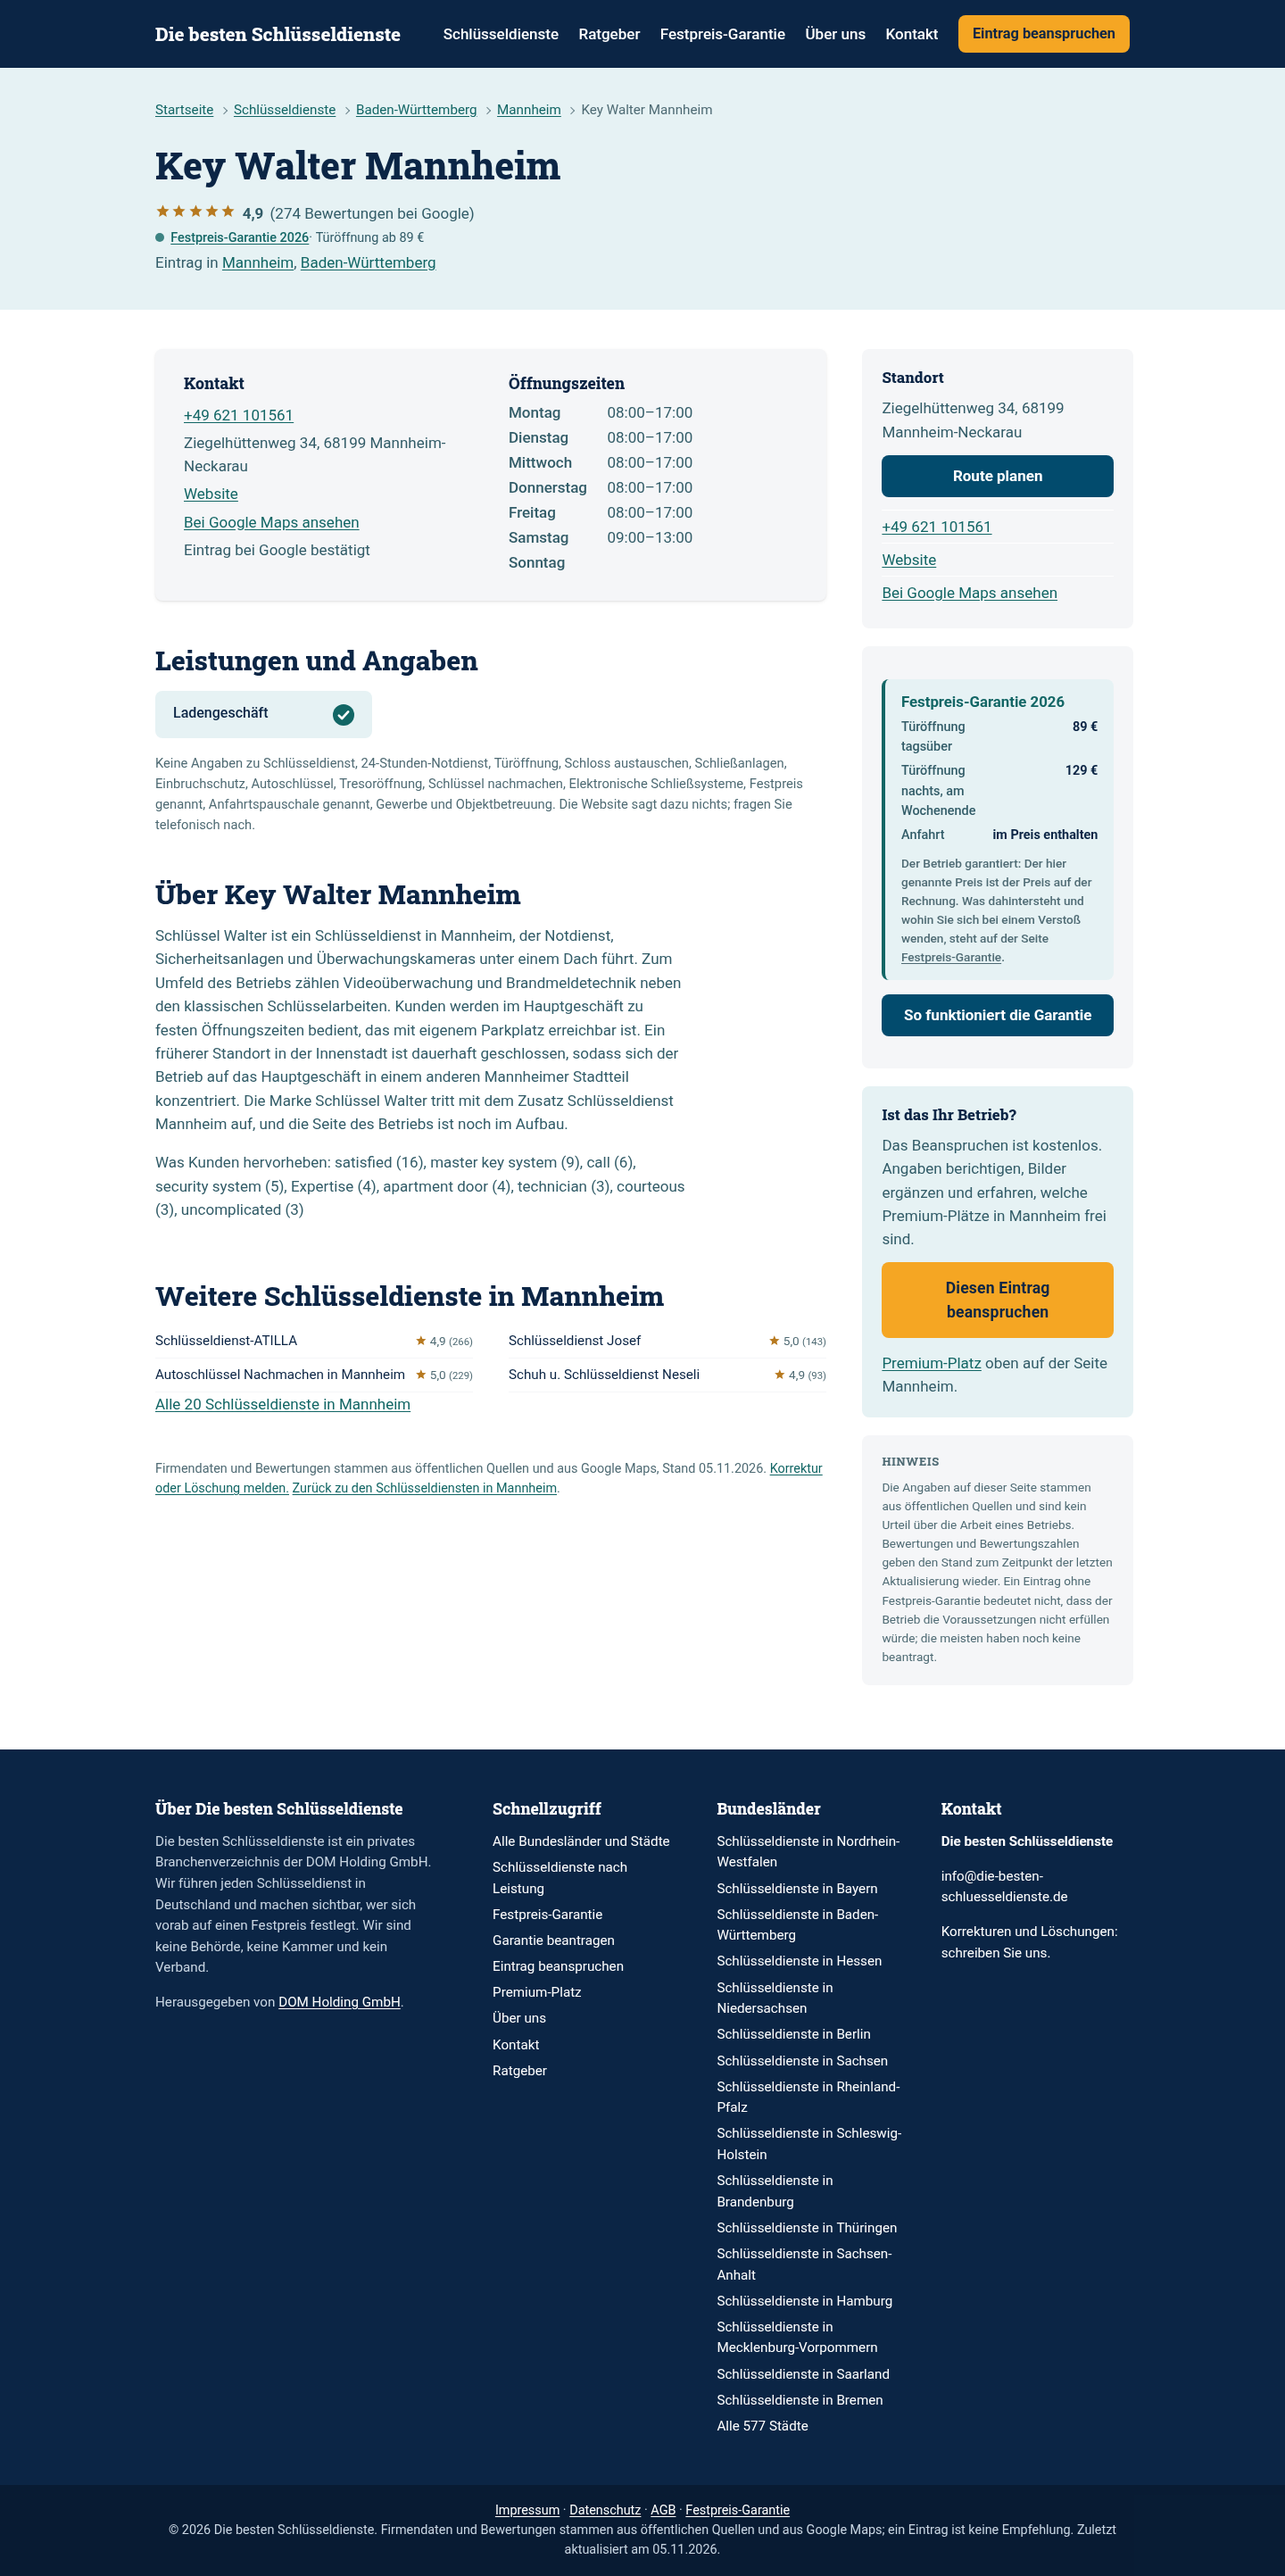
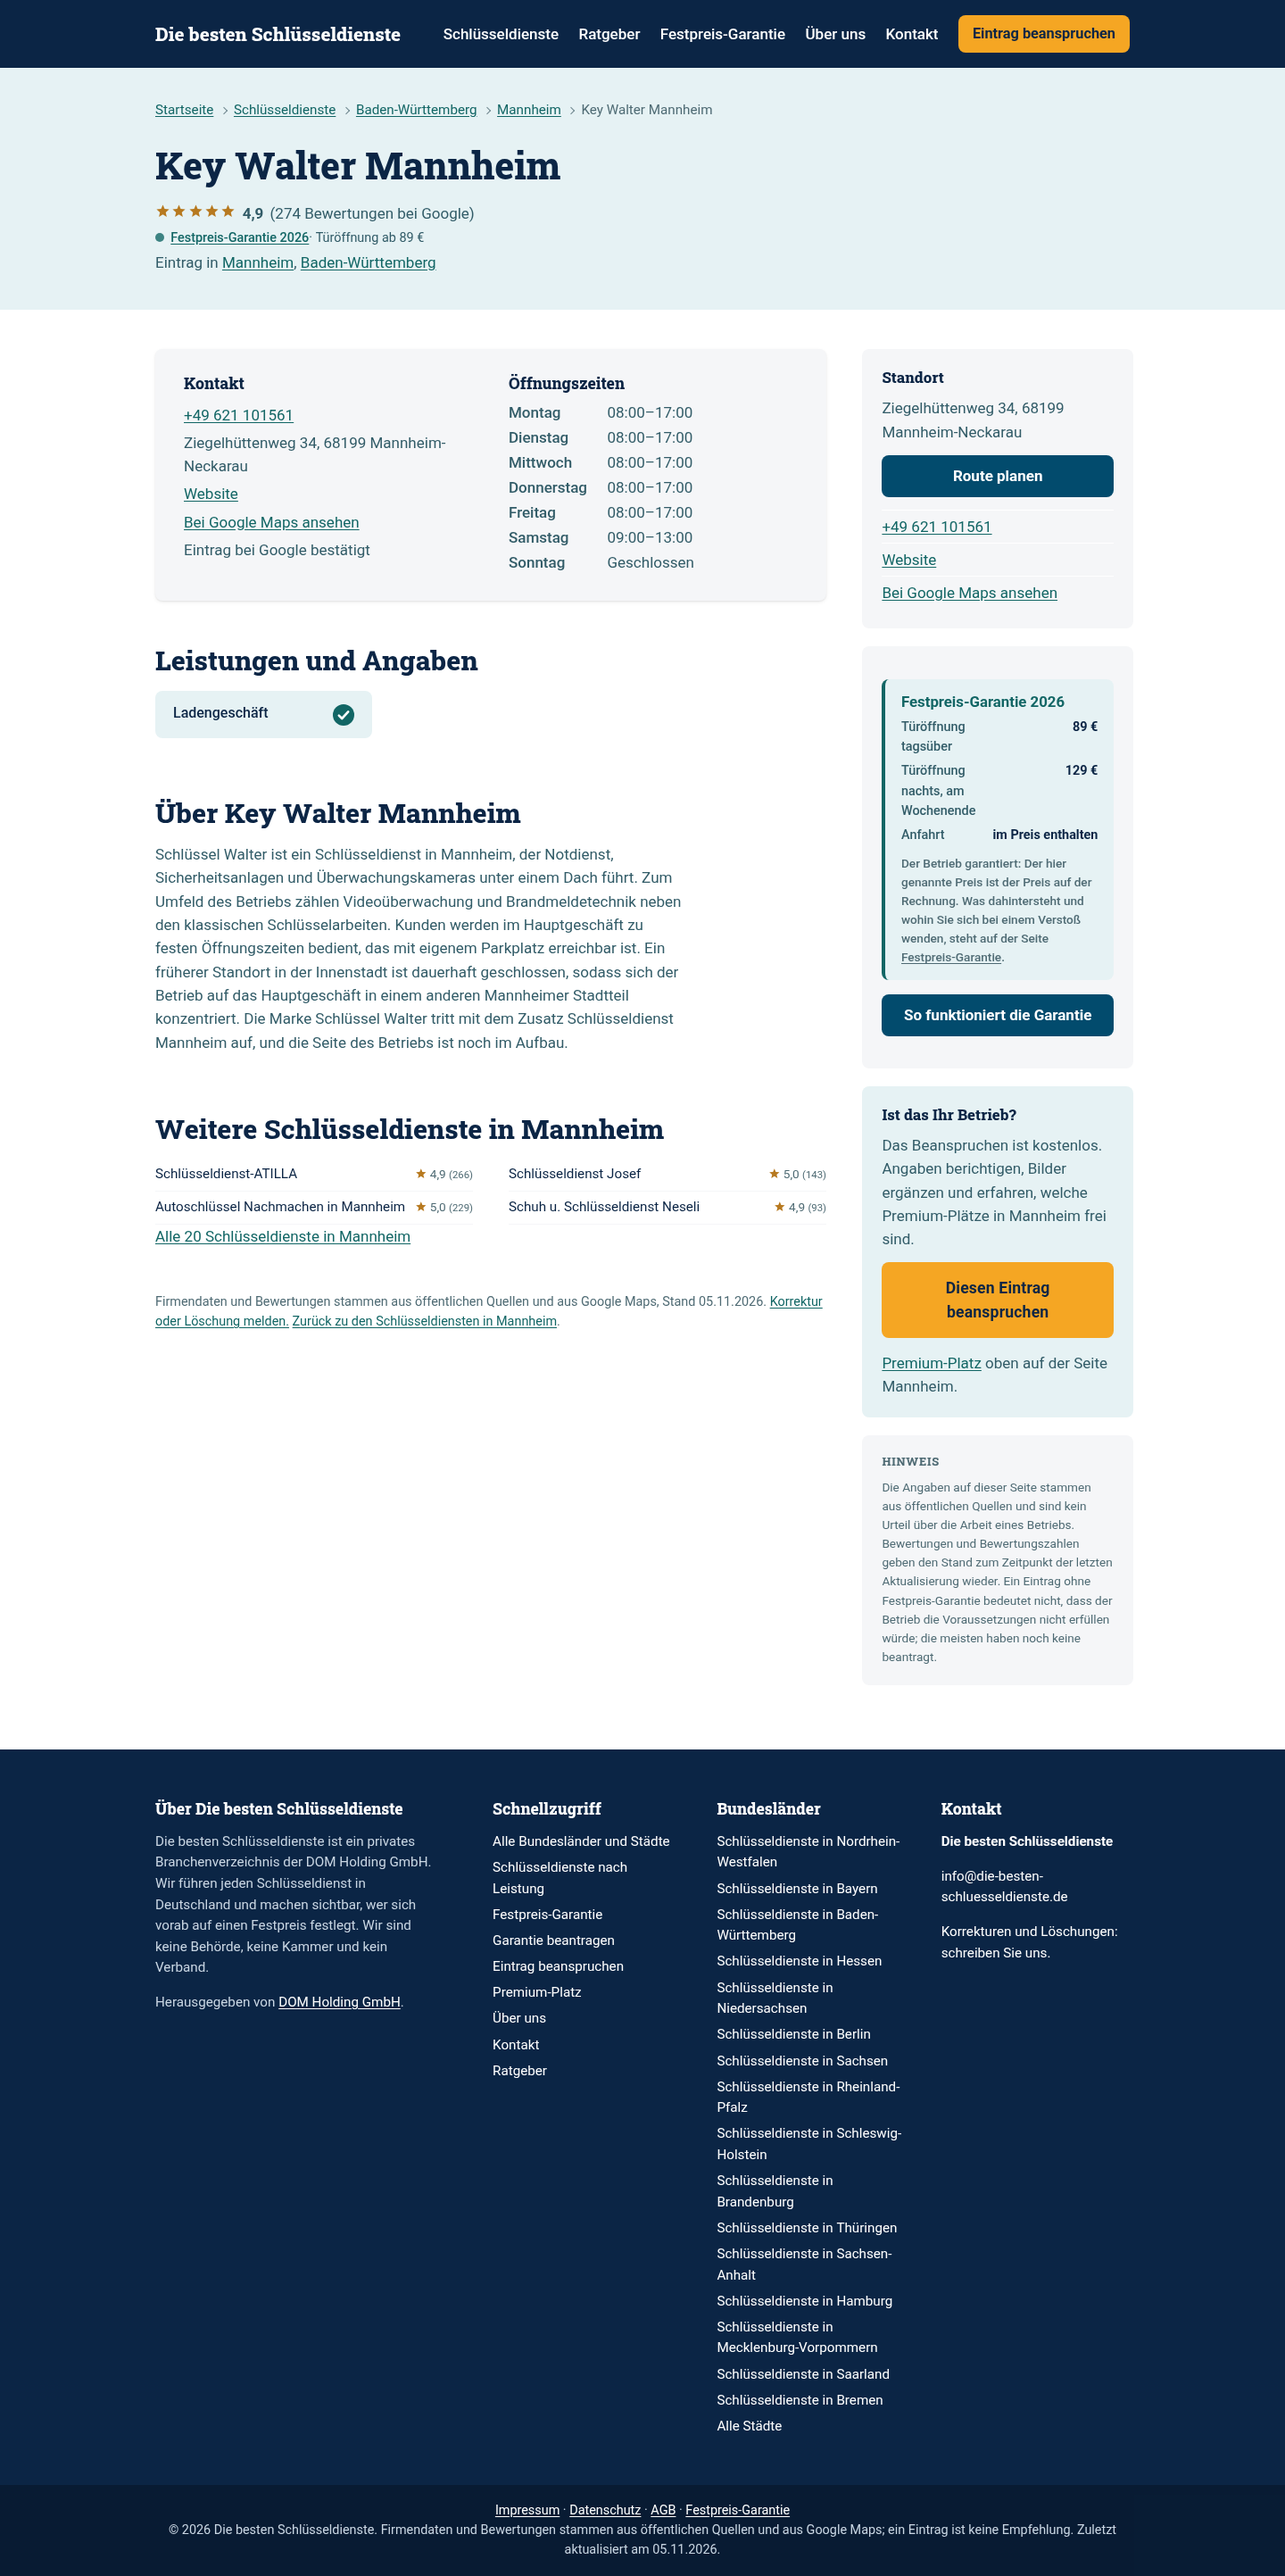
Eintragsseite: nur bestaetigte Merkmale, Bewertungsschlagwoerter raus, Sonntag, Staedtezahl
(1) "Leistungen und Angaben" zeigt nur Merkmale mit Wert true; nicht
bestaetigte werden weggelassen (keine "Keine Angaben zu ..."-Zeile).
Ohne bestaetigtes Merkmal entfaellt der ganze Abschnitt. 2.394 Eintraege
zeigten bisher die Fehlanzeigen-Liste; 1.453 (38 %) haben danach keinen
Merkmals-Abschnitt (fehlende Website-Beleggrundlage) -> Gate-3-Frage
offen, nicht angefasst.

(2) Bewertungsschlagwoerter (reviews_tags, u. a. irrefuehrendes
"damage (45)") ersatzlos entfernt; nirgends sonst gerendert, bleibt in
den Daten.

Sonntag: vorhandener leerer/null-Tag -> "Geschlossen" (DataForSEO
schreibt Ruhetag als "sunday": null). Staedtezahl: 577 = indexierte
Staedte, 787 = inkl. 210 kleinerer Orte; Verweise sagen jetzt "Alle
Staedte" (ohne Zahl), nur noch ein Verweis auf der Startseite.

Neue Screenshots (Eintrag mit Garantie, Mannheim). Bericht:
berichte/2026-11-05-eintragsseite-merkmale-schlagwoerter.md

Changed region(s): [[0.125, 0.2807, 0.625, 0.5925]]

diff --git a/berichte/2026-11-05-eintragsseite-merkmale-schlagwoerter.md b/berichte/2026-11-05-eintragsseite-merkmale-schlagwoerter.md
@@ -1,0 +1,77 @@
+---
+title: Eintragsseite – Fehlanzeigen raus, Bewertungsschlagwörter raus, Sonntag, Städtezahl
+type: bericht
+status: fertig
+updated: 2026-11-05
+---
+
+# Eintragsseite: zwei Blöcke entfernt, zwei Kleinigkeiten
+
+## (1) „Leistungen und Angaben": nur noch Bestätigtes
+`AttributeGrid` zeigt jetzt **nur Merkmale mit Wert „true"** (Website belegt sie). Nicht bestätigte
+Merkmale – sowohl ein „nein" als auch „nicht bekannt" – werden **weggelassen, nicht benannt**; die
+Zeile „Keine Angaben zu …" ist raus. Ist **kein** Merkmal bestätigt, **entfällt der ganze Abschnitt**
+(Überschrift, Raster und die „In Deutschland vergleichen"-Links) auf der Eintragsseite.
+
+### Zahlen, die du vorab wolltest (Stand 3.800 Einträge)
+- **2.394** Einträge zeigten bisher die „Keine Angaben zu …"-Liste.
+- **1.453** Einträge hätten nach der Änderung **gar keinen Merkmals-Abschnitt** mehr (kein einziges
+  Merkmal bestätigt). Davon haben **1.403** überhaupt kein bekanntes Merkmal (weder ja noch nein).
+- **2.347** Einträge haben mindestens ein bestätigtes Merkmal und behalten den Abschnitt.
+
+**Einordnung / deine Entscheidung:** 1.453 von 3.800 (**38 %**) ohne Merkmals-Abschnitt ist viel.
+Der Grund ist fast durchweg **fehlende Beleggrundlage**: die 1.403 ohne jedes bekannte Merkmal sind
+Einträge, zu denen Gate 3 keine Website lesen konnte (keine Seite hinterlegt, Abruf gescheitert, oder
+sehr dünn). Das ist **kein Fehler der Anzeige** – „nur Bestätigtes zeigen" ist richtig, auch wenn
+Gate 3 später mehr erkennt. Die eigentliche Frage ist, ob die **Merkmalserkennung in Gate 3 zu streng
+bzw. die Abdeckung zu dünn** war. Zwei Hebel, falls du mehr Abschnitte willst (beides deine
+Entscheidung, nicht von mir angefasst):
+1. Das Kernmerkmal „Schlüsseldienst (Türöffnung/Schließtechnik)" für Einträge der Google-Kategorie
+   `locksmith` als bestätigt werten, auch ohne eigene Website (heute `schluesseldienst_kern` = true
+   bei 1.795). Das wäre eine Gate-3-Regeländerung.
+2. Websites der betroffenen Einträge erneut abrufen und anreichern (Gate 3 teilweise neu, kostet).
+
+Sag, ob und welchen Weg du willst; die Anzeige-Änderung steht unabhängig davon.
+
+## (2) Bewertungsschlagwörter (`reviews_tags`) entfernt
+Der Block „Was Kunden hervorheben: satisfied (16) …" ist **ersatzlos raus** (Eintragsseite, eine
+Zeile). Er war Googles `reviews_tags` im Rohzustand (englisch, mit Zählern). Gefährlich war u. a.
+„damage (45)", das unter „Was Kunden hervorheben" wie ein verursachter Schaden las – eine falsche
+Aussage über ein fremdes Unternehmen. **Nicht übersetzt, sondern entfernt**; die deutsche
+angereicherte Beschreibung sagt bereits in Sätzen, was der Betrieb macht.
+
+Geprüft, wo `reviews_tags`/`reviewsTags` sonst noch in die Ausgabe ginge: **nirgends** – nicht auf
+Stadtseiten, nicht auf Karten/Kacheln, nicht im JSON-LD. Das Feld bleibt in den Daten (`load.mjs`
+reicht es weiter), wird aber **nicht mehr gerendert**.
+
+## Kleinigkeit A: Sonntag stand leer statt „Geschlossen"
+Ursache gefunden: DataForSEO schreibt einen Ruhetag als **`"sunday": null`** (Schlüssel vorhanden,
+Wert null) – nicht als leeres Intervall. `normalizeHours` gab für einen vorhandenen, aber leeren/null
+Tagesschlüssel bisher einen leeren String zurück. Jetzt gilt: **ein vorhandener Tag ohne Zeiten =
+„Geschlossen"** (leeres Array, null oder leer). Ein **fehlender** Tagesschlüssel erzeugt wie bisher
+gar keine Zeile. Key Walter zeigt Sonntag nun „Geschlossen".
+
+## Kleinigkeit B: „Alle 577 Städte" vs. 787 Stadtseiten
+**Beide Zahlen stimmen, sie zählen Verschiedenes:**
+- **577** = Städte mit mindestens `cityFloor` (2) Einträgen, die eine **eigene, indexierte**
+  Stadtseite bekommen. Das ist die Zahl „Städte", die das ganze Verzeichnis verwendet
+  (`stats.cities`, Zahlenkarte „577 Städte").
+- **787** = **alle** Stadtseiten = die 577 **plus 210 „Kleinere Orte"** (Orte mit 1 Eintrag, je eine
+  eigene `noindex`-Seite). Die Blätterseite `/verzeichnis/` listet alle 787 (Städte + kleinere Orte
+  gemischt unter „Städte von A bis Z").
+
+Die Fußzeile sagte „Alle 577 Städte", verlinkte aber auf `/verzeichnis/`, das 787 zeigt – der Label
+passte nicht zum Ziel. **Fix:** die Zahl aus den Verweisen entfernt – Fußzeile und Startseite sagen
+jetzt schlicht **„Alle Städte"** (→ `/verzeichnis/`). Die Kennzahl „577 Städte" bleibt dort, wo sie
+die echte Städtezahl meint (Zahlenkarte, Bundesland-Zählungen). Auf der Startseite steht dadurch nur
+noch **ein** „Alle Städte"-Verweis statt zweier.
+
+## Screenshots (neu, berichte/screenshots/)
+`eintrag-mit-garantie` und `stadt-mannheim`, je 1440/390 px. Die Eintragsseite zeigt jetzt nur
+„Ladengeschäft" unter Leistungen, keinen Schlagwortblock, Sonntag „Geschlossen". Wie zuvor war der
+Garantie-Eintrag nur **für die Aufnahme** temporär geflaggt; der ausgelieferte Stand ist unverändert
+ohne Garantie (geprueft = 0).
+
+## Prüfung
+Build grün (4.629 Seiten), Schriftprüfung bestanden. Eintrag ohne bestätigtes Merkmal
+(Lippstädter Sicherheitscenter) hat korrekt **keinen** Leistungen-Abschnitt; Rest der Seite intakt.

diff --git a/wiki/log.md b/wiki/log.md
@@ -393,3 +393,15 @@ Zahlen, was auf Freigabe wartet.
   Höhe 8.430 px (1440). Suchfeld-Platzhalter gekürzt; U+FEFF in load.mjs (Regex, gewollt) auf Escape
   umgestellt. Nebenbei: Öffnungszeiten zeigten „[object Object]" (DataForSEO-Array), `normalizeHours`
   repariert. Bericht: `berichte/2026-11-05-darstellungsfehler-und-startseite.md`.
+
+- **2026-11-05 (Eintragsseite):** „Leistungen und Angaben" zeigt nur noch bestätigte Merkmale
+  (Wert true); nicht bestätigte werden weggelassen, „Keine Angaben zu …"-Zeile raus; ohne
+  bestätigtes Merkmal entfällt der ganze Abschnitt. **2.394** Einträge zeigten bisher die Fehlanzeigen-
+  Liste; **1.453** (38 %) haben nach der Änderung keinen Merkmals-Abschnitt (1.403 ohne jedes bekannte
+  Merkmal = fehlende Website-Beleggrundlage) → Frage an Daniel, ob Gate-3-Erkennung/Abdeckung
+  nachgebessert wird (offen, nicht angefasst). Bewertungsschlagwörter (`reviews_tags`, u. a.
+  „damage (45)") ersatzlos entfernt; nirgends sonst gerendert, bleibt in den Daten. `normalizeHours`:
+  vorhandener leerer/`null`-Tag → „Geschlossen" (DataForSEO schreibt Ruhetag als `"sunday": null`).
+  Städtezahl: 577 = indexierte Städte (≥2 Einträge), 787 = inkl. 210 kleinerer Orte; Verweise sagen
+  jetzt „Alle Städte" (ohne Zahl). Bericht:
+  `berichte/2026-11-05-eintragsseite-merkmale-schlagwoerter.md`.
